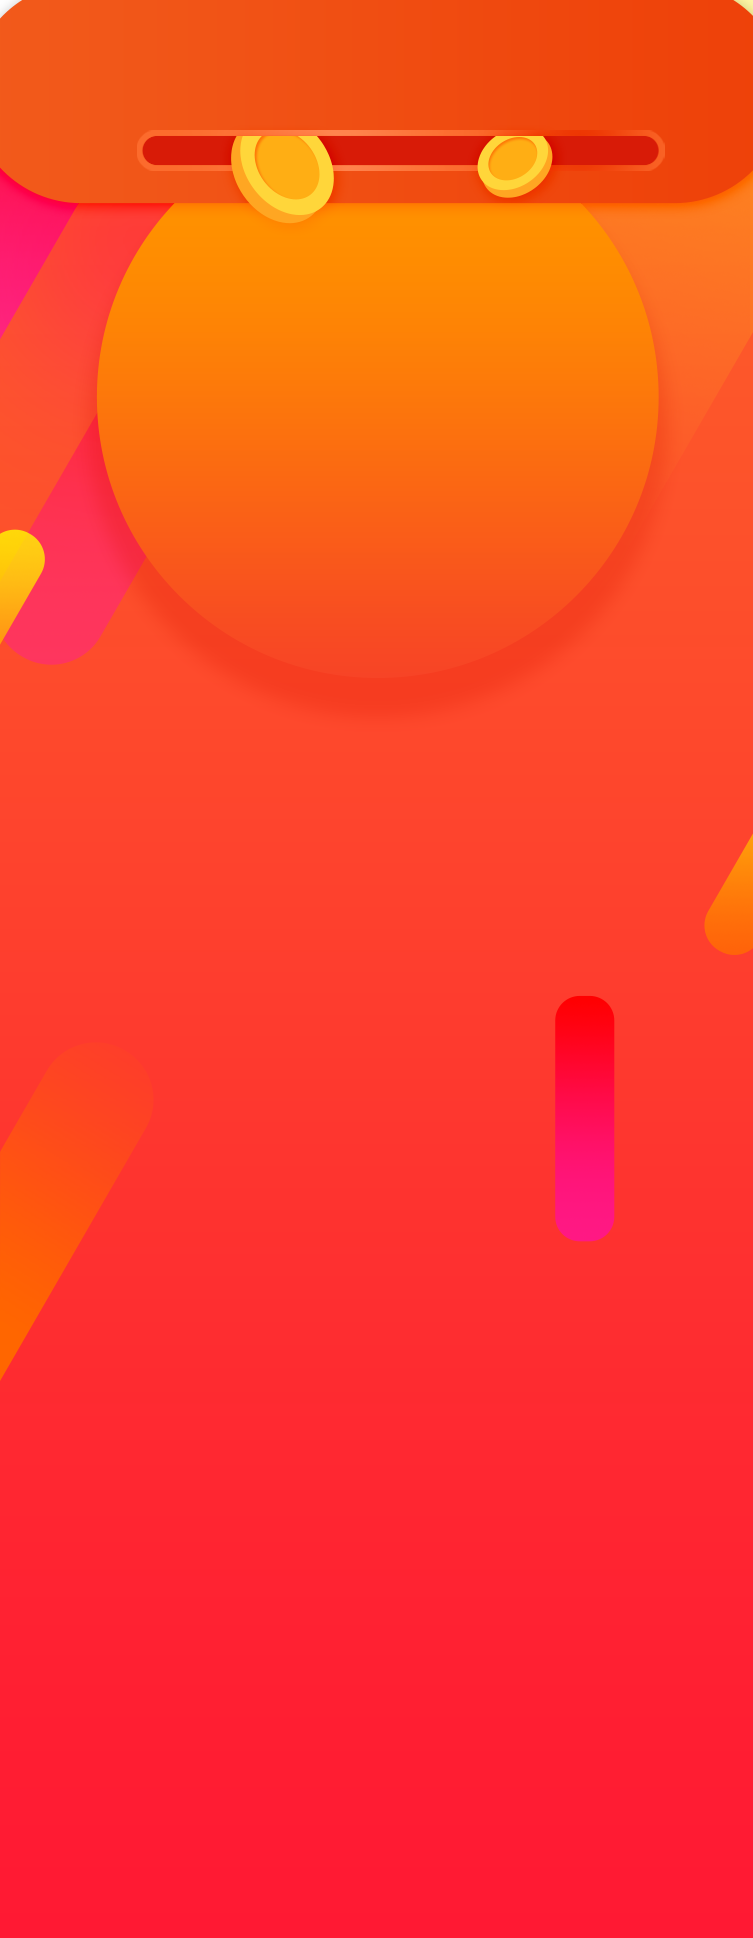
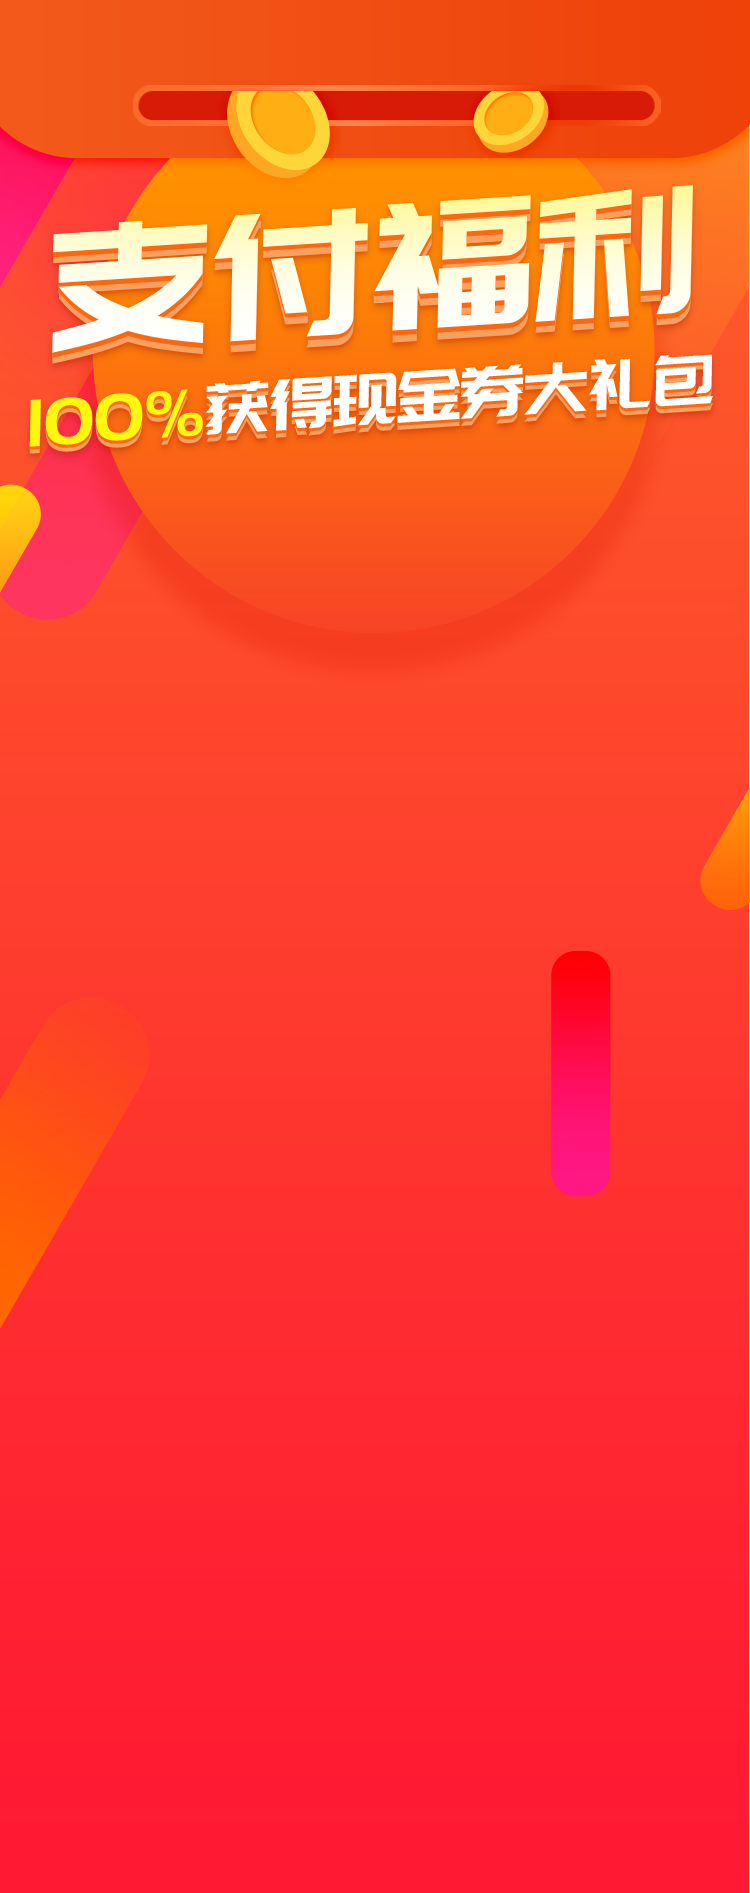
文字滚动增加

diff --git a/src/business-pages/pay-success/index.tsx b/src/business-pages/pay-success/index.tsx
@@ -13,8 +13,7 @@ export default class PaySuccess extends Component {
   };
 
   state = {
-    notice: ['恭喜XXX获取到100万无门槛红包', '恭喜XXX获取到100万无门槛红包', '恭喜XXX获取到100万无门槛红包'],
-    noticeCopy: [],
+    notice: ['恭喜XXX获取到300万无门槛红包', '恭喜XXX获取到1002万无门槛红包', '恭喜XXX获取到1032万无门槛红包'],
     draw: 1, // 当前转圈选中的值
     drwaIndex: 0, // 圈数
     drawActive: Math.floor(Math.random() * 8), // 抽中的选项
@@ -25,7 +24,9 @@ export default class PaySuccess extends Component {
   componentWillMount() {
     console.log(this.state.drawActive)
   }
-  componentDidMount() {}
+  componentDidMount() {
+    setInterval(() => this.noticeAminRemove(), 50);
+  }
   onDraw () { // 抽奖
       if (this.state.drawStatus) return false
       this.setState({drawStatus: true})
@@ -47,7 +48,19 @@ export default class PaySuccess extends Component {
       }
   }
   noticeAmin () {
+    
   }
+  noticeAminRemove () {
+    let n = this.refs['notice']['vnode']['dom'];
+    let l = this.refs['noticeLeft']['vnode']['dom'];
+    let r = this.refs['noticeReft']['vnode']['dom'];
+    if(n.scrollLeft >= l.offsetWidth){
+        n.scrollLeft = 0;
+    }else{
+        n.scrollLeft++;
+    }
+  }
+
   render() {
     return (
         <View className="pay-success">
@@ -60,13 +73,20 @@ export default class PaySuccess extends Component {
                 <View className="cell-ft cff6654">订单详情<AtIcon value="chevron-right" color="#999" size="16px"/></View>       
             </View>    
             <View className="welfare ">
-                <View className="notice flex">
-                    <View className="notice-view flex">
-                        {
-                            this.state.noticeCopy.map((_) => (<View className="text">{_}</View>))
-                        }
-                    </View>
-                </View>  
+                <View className="notice-body">
+                    <View className="notice flex" ref="notice">
+                        <View className="notice-view flex" ref="noticeLeft">
+                            {
+                                this.state.notice.map((_) => (<View className="text">{_}</View>))
+                            }
+                        </View>
+                        <View className="notice-view flex" ref="noticeReft">
+                            {
+                                this.state.notice.map((_) => (<View className="text">{_}</View>))
+                            }
+                        </View>
+                    </View>  
+                </View>    
                 <View className="turntable flex">
                     <View className={`prize flex center column ${this.state.draw == 1 ? 'active' : ''}`}>
                         <Image className="image prz3" src={TicketImg} /> 
